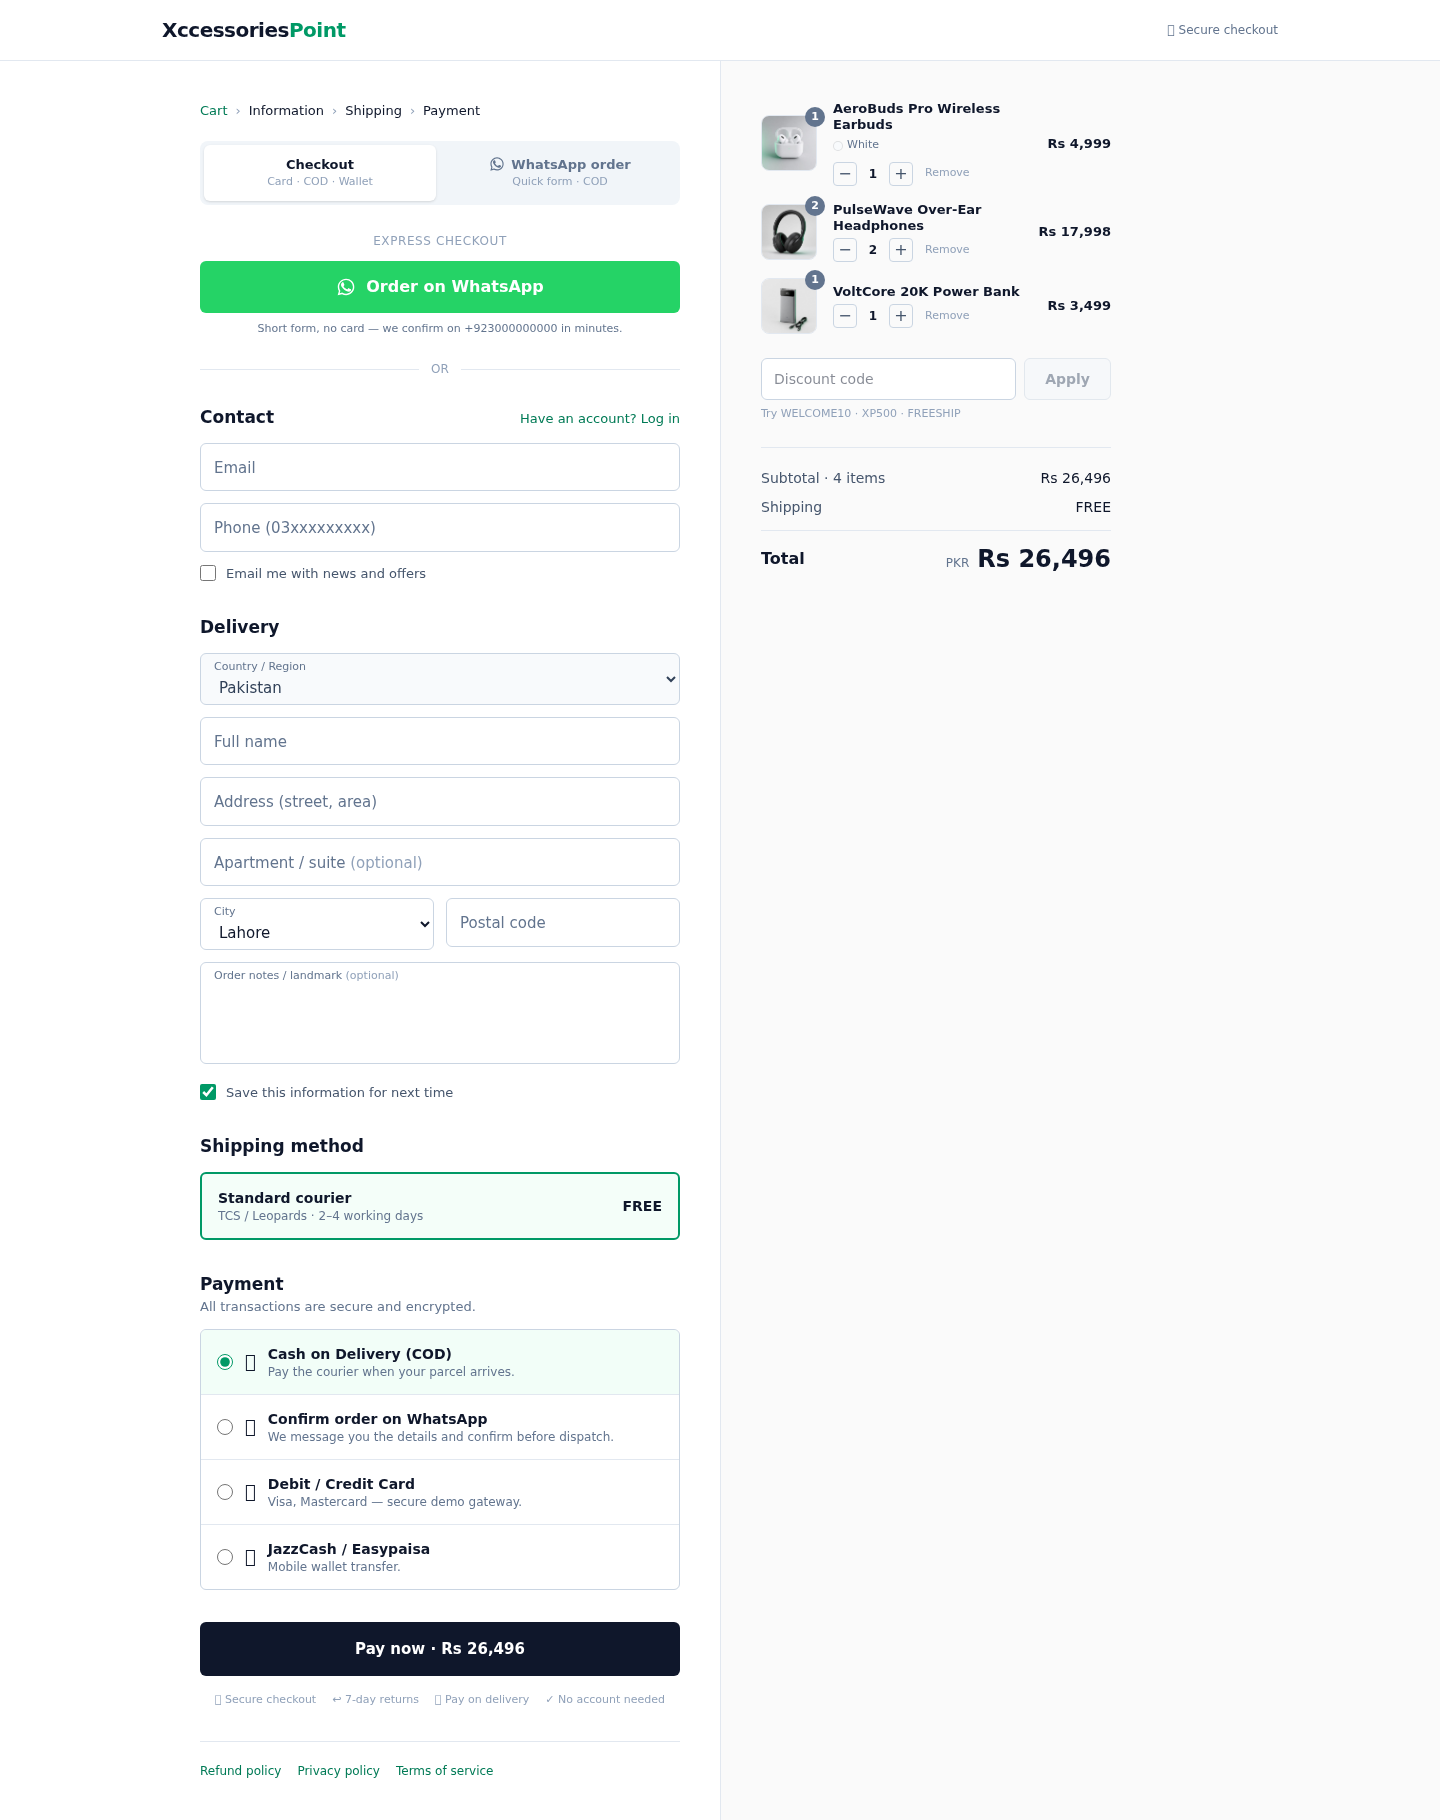
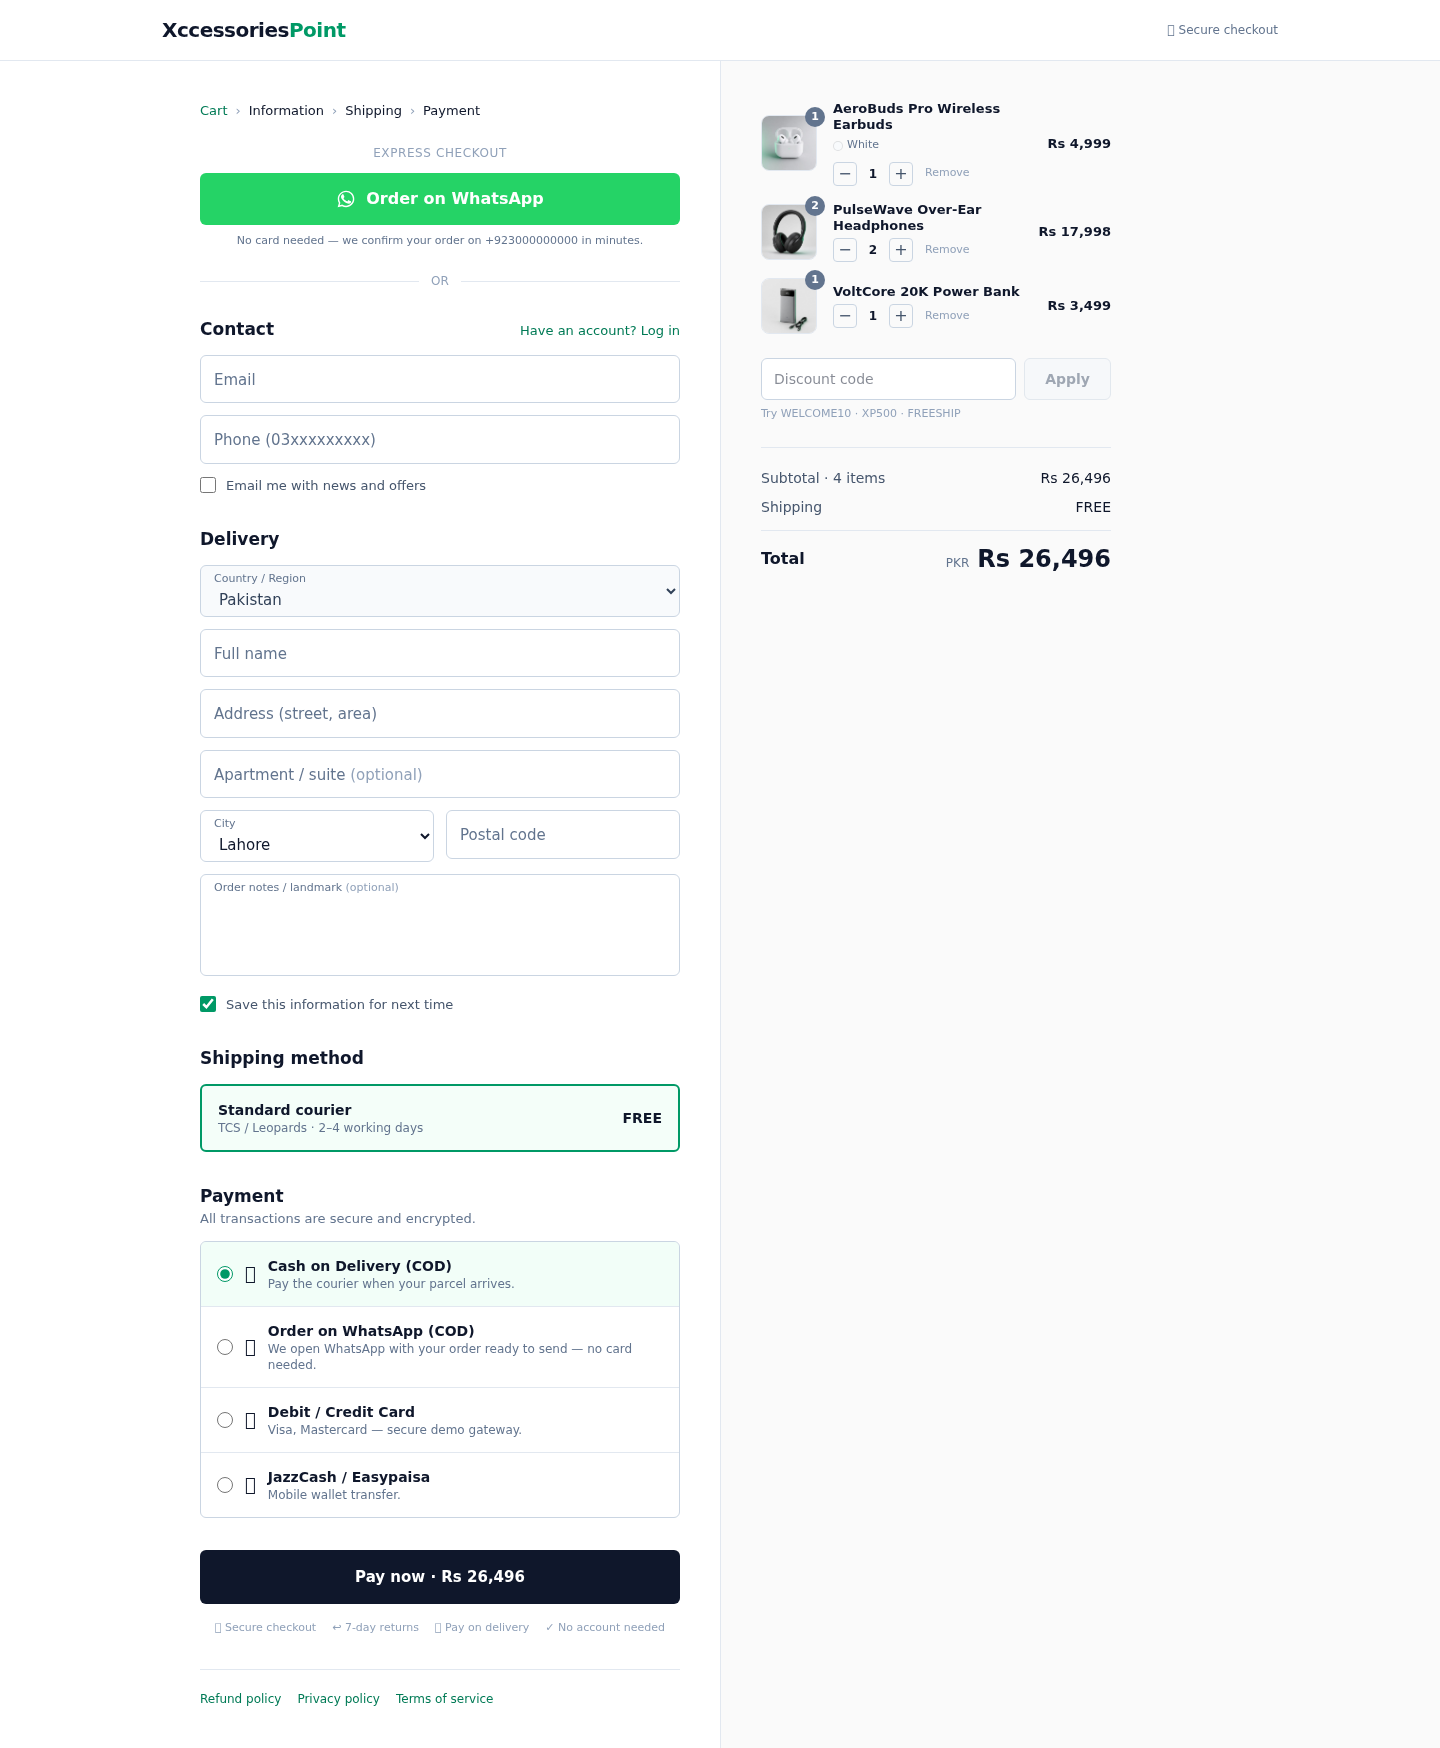
Merge WhatsApp ordering into the single checkout form (drop separate form)

diff --git a/src/pages/CheckoutPage.tsx b/src/pages/CheckoutPage.tsx
@@ -6,13 +6,12 @@ import { track } from "../lib/tracking";
 import { swatchFor, swatchStyle } from "../lib/swatch";
 import { pixelTrack } from "../lib/pixel";
 import { buildOrderMessage, openWhatsApp, paymentLabel, WHATSAPP_NUMBER } from "../lib/whatsapp";
-import WhatsAppOrderForm from "../components/WhatsAppOrderForm";
 
 const CITIES = ["Lahore", "Karachi", "Islamabad", "Rawalpindi", "Faisalabad", "Multan", "Peshawar", "Quetta", "Sialkot", "Gujranwala", "Hyderabad", "Other"];
 
 const PAY_METHODS = [
   { id: "cod", label: "Cash on Delivery (COD)", desc: "Pay the courier when your parcel arrives.", icon: "💵" },
-  { id: "whatsapp", label: "Confirm order on WhatsApp", desc: "We message you the details and confirm before dispatch.", icon: "💬" },
+  { id: "whatsapp", label: "Order on WhatsApp (COD)", desc: "We open WhatsApp with your order ready to send — no card needed.", icon: "💬" },
   { id: "card", label: "Debit / Credit Card", desc: "Visa, Mastercard — secure demo gateway.", icon: "💳" },
   { id: "wallet", label: "JazzCash / Easypaisa", desc: "Mobile wallet transfer.", icon: "📲" },
 ];
@@ -89,14 +88,14 @@ export default function CheckoutPage() {
   const [city, setCity] = useState(saved.city || "Lahore");
   const [postalCode, setPostalCode] = useState(saved.postalCode || "");
   const [notes, setNotes] = useState(saved.notes || "");
-  const [payment, setPayment] = useState(saved.payment || "cod");
+  // ?via=whatsapp deep-links straight to the WhatsApp option of the one checkout form
+  const [payment, setPayment] = useState(
+    new URLSearchParams(window.location.search).get("via") === "whatsapp" ? "whatsapp" : saved.payment || "cod"
+  );
   const [saveInfo, setSaveInfo] = useState(saved.saveInfo ?? true);
   const [newsletter, setNewsletter] = useState(saved.newsletter ?? false);
   const [showErrors, setShowErrors] = useState(false);
-  // "checkout" = Shopify-style single-page checkout, "whatsapp" = standalone WhatsApp order form
-  const [mode, setMode] = useState<"checkout" | "whatsapp">(
-    () => (new URLSearchParams(window.location.search).get("via") === "whatsapp" ? "whatsapp" : "checkout")
-  );
+
   const [summaryOpen, setSummaryOpen] = useState(false);
 
   const [busy, setBusy] = useState(false);
@@ -183,7 +182,7 @@ export default function CheckoutPage() {
   };
 
   /* ---------------- validation ---------------- */
-  const isWhatsApp = mode === "whatsapp" || payment === "whatsapp";
+  const isWhatsApp = payment === "whatsapp";
   const errors = {
     name: !name.trim() ? "Enter a name" : null,
     email: !email.trim() ? (isWhatsApp ? null : "Enter an email address") : /^\S+@\S+\.\S+$/.test(email) ? null : "Enter a valid email",
@@ -214,9 +213,9 @@ export default function CheckoutPage() {
         city,
         postalCode,
         notes,
-        payment: mode === "whatsapp" ? "whatsapp" : payment,
+        payment,
       }),
-    [mode, items, total, discount, coupon, shipping, grand, name, phone, email, address, apartment, city, postalCode, notes, payment]
+    [items, total, discount, coupon, shipping, grand, name, phone, email, address, apartment, city, postalCode, notes, payment]
   );
 
   /* ---------------- submit ---------------- */
@@ -238,7 +237,7 @@ export default function CheckoutPage() {
         phone,
         address: [address, apartment].filter(Boolean).join(", "),
         city: postalCode ? `${city} ${postalCode}` : city,
-        payment: mode === "whatsapp" ? "whatsapp" : payment,
+        payment,
       });
       setOrder(o);
       localStorage.removeItem("xp_checkout");
@@ -267,7 +266,7 @@ export default function CheckoutPage() {
             city,
             postalCode,
             notes,
-            payment: mode === "whatsapp" ? "whatsapp" : payment,
+            payment,
           })
         );
       }
@@ -292,7 +291,7 @@ export default function CheckoutPage() {
     return (
       <ThankYou
         order={order}
-        meta={{ name, email, phone, address, apartment, city, postalCode, payment: mode === "whatsapp" ? "whatsapp" : payment, notes }}
+        meta={{ name, email, phone, address, apartment, city, postalCode, payment, notes }}
         onHome={() => navigate("/")}
         onShop={() => navigate("/shop")}
         onCopy={() => {
@@ -431,47 +430,15 @@ export default function CheckoutPage() {
         <main className="lg:order-1">
           <div className="max-w-[560px] lg:ml-auto px-5 lg:px-10 py-8 lg:py-10">
             {/* breadcrumb (single-page checkout — every step is on this page) */}
-            {mode === "checkout" && (
-              <nav className="flex flex-wrap items-center gap-2 text-[13px] text-slate-400 mb-5">
-                <Link to="/shop" className="text-emerald-700 hover:underline">Cart</Link>
-                <span>›</span>
-                <span className="text-slate-900 font-medium">Information</span>
-                <span>›</span>
-                <span className="text-slate-900 font-medium">Shipping</span>
-                <span>›</span>
-                <span className="text-slate-900 font-medium">Payment</span>
-              </nav>
-            )}
-
-            {/* how do you want to order? */}
-            {items.length > 0 && (
-              <div className="mb-7 grid grid-cols-2 gap-2 rounded-lg bg-slate-100 p-1">
-                {([
-                  { id: "checkout", label: "Checkout", sub: "Card · COD · Wallet" },
-                  { id: "whatsapp", label: "WhatsApp order", sub: "Quick form · COD" },
-                ] as const).map((t) => (
-                  <button
-                    key={t.id}
-                    type="button"
-                    onClick={() => {
-                      setMode(t.id);
-                      setShowErrors(false);
-                    }}
-                    className={`rounded-md px-3 py-2.5 text-center transition ${
-                      mode === t.id ? "bg-white shadow-sm" : "hover:bg-white/60"
-                    }`}
-                  >
-                    <span className={`flex items-center justify-center gap-1.5 text-[13px] font-semibold ${
-                      mode === t.id ? (t.id === "whatsapp" ? "text-[#128C7E]" : "text-slate-900") : "text-slate-500"
-                    }`}>
-                      {t.id === "whatsapp" && <WaIcon className="w-4 h-4" />}
-                      {t.label}
-                    </span>
-                    <span className="block text-[11px] text-slate-400">{t.sub}</span>
-                  </button>
-                ))}
-              </div>
-            )}
+            <nav className="flex flex-wrap items-center gap-2 text-[13px] text-slate-400 mb-6">
+              <Link to="/shop" className="text-emerald-700 hover:underline">Cart</Link>
+              <span>›</span>
+              <span className="text-slate-900 font-medium">Information</span>
+              <span>›</span>
+              <span className="text-slate-900 font-medium">Shipping</span>
+              <span>›</span>
+              <span className="text-slate-900 font-medium">Payment</span>
+            </nav>
 
             {items.length === 0 ? (
               <div className="rounded-lg border border-slate-200 p-10 text-center">
@@ -482,51 +449,26 @@ export default function CheckoutPage() {
                   Continue shopping
                 </Link>
               </div>
-            ) : mode === "whatsapp" ? (
-              <WhatsAppOrderForm
-                values={{ name, phone, email, address, apartment, city, notes }}
-                set={{
-                  name: setName,
-                  phone: setPhone,
-                  email: setEmail,
-                  address: setAddress,
-                  apartment: setApartment,
-                  city: setCity,
-                  notes: setNotes,
-                }}
-                cities={CITIES}
-                errors={{ name: errors.name, phone: errors.phone, address: errors.address }}
-                showErrors={showErrors}
-                message={waMessage}
-                busy={busy}
-                itemCount={items.reduce((s, i) => s + i.qty, 0)}
-                totalLabel={fmt(grand)}
-                onSubmit={submit}
-                onSwitchToCheckout={() => {
-                  setMode("checkout");
-                  setShowErrors(false);
-                  window.scrollTo({ top: 0, behavior: "smooth" });
-                }}
-              />
             ) : (
               <>
-                {/* express checkout — hand off to the WhatsApp order form */}
+                {/* express checkout — same form, WhatsApp instead of paying online */}
                 <section className="mb-7">
                   <p className="text-center text-xs uppercase tracking-wider text-slate-400 mb-3">Express checkout</p>
                   <button
                     type="button"
                     onClick={() => {
-                      setMode("whatsapp");
-                      setShowErrors(false);
-                      window.scrollTo({ top: 0, behavior: "smooth" });
+                      setPayment("whatsapp");
+                      document.getElementById("xp-payment")?.scrollIntoView?.({ behavior: "smooth", block: "center" });
                     }}
-                    className="w-full flex items-center justify-center gap-2.5 rounded-md bg-[#25D366] py-3.5 font-bold text-white hover:brightness-95 transition"
+                    className={`w-full flex items-center justify-center gap-2.5 rounded-md py-3.5 font-bold text-white transition ${
+                      isWhatsApp ? "bg-[#128C7E]" : "bg-[#25D366] hover:brightness-95"
+                    }`}
                   >
                     <WaIcon className="w-5 h-5" />
-                    Order on WhatsApp
+                    {isWhatsApp ? "WhatsApp selected — fill the form below" : "Order on WhatsApp"}
                   </button>
                   <p className="mt-2 text-center text-[11px] text-slate-500">
-                    Short form, no card — we confirm on {"+" + WHATSAPP_NUMBER} in minutes.
+                    No card needed — we confirm your order on {"+" + WHATSAPP_NUMBER} in minutes.
                   </p>
                   <div className="flex items-center gap-3 mt-6">
                     <span className="h-px flex-1 bg-slate-200" />
@@ -668,7 +610,10 @@ export default function CheckoutPage() {
                         </label>
                         {payment === m.id && m.id === "whatsapp" && (
                           <div className="bg-[#f6fdf8] border-t border-emerald-100 px-4 py-4">
-                            <p className="text-[13px] font-semibold text-slate-800 mb-2">This message will be sent to our WhatsApp:</p>
+                            <p className="text-[13px] text-slate-600 mb-2">
+                              Placing the order opens WhatsApp with everything below pre-written to{" "}
+                              <span className="font-semibold">+{WHATSAPP_NUMBER}</span> — just press send. Email is optional for this option.
+                            </p>
                             <pre className="max-h-40 overflow-auto whitespace-pre-wrap rounded-md border border-emerald-100 bg-white p-3 text-[11px] leading-relaxed text-slate-600">
                               {waMessage}
                             </pre>

diff --git a/docs/screenshots/README.md b/docs/screenshots/README.md
@@ -6,10 +6,10 @@ Captured from the running app (Vite dev server + SQLite API) with headless Chrom
 | --- | --- |
 | `01-home.png` | Storefront home page |
 | `02-shop.png` | Shop grid — product cards with variant swatches / "Add to Cart ▾" |
-| `03-checkout.png` | Shopify-style single-page checkout (desktop, full page) |
-| `04-checkout-whatsapp-form.png` | Standalone WhatsApp order form tab (desktop) |
+| `03-checkout.png` | Shopify-style single-page checkout — one form (desktop, full page) |
+| `04-checkout-whatsapp-selected.png` | Same single form with the WhatsApp payment option selected |
 | `05-checkout-mobile.png` | Checkout on mobile (390px) with the collapsible order summary |
-| `06-checkout-whatsapp-mobile.png` | WhatsApp order form on mobile |
+| `06-checkout-whatsapp-mobile.png` | Same form on mobile with WhatsApp selected |
 | `07-order-confirmed.png` | Order confirmation / thank-you page |
 
 Note: emoji render as empty boxes because the capture environment has no emoji font installed —
